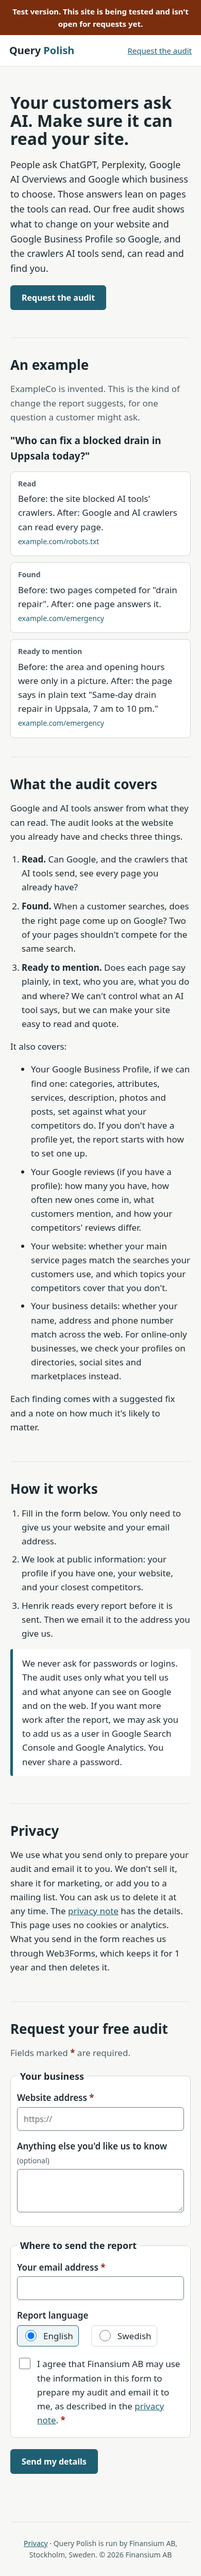
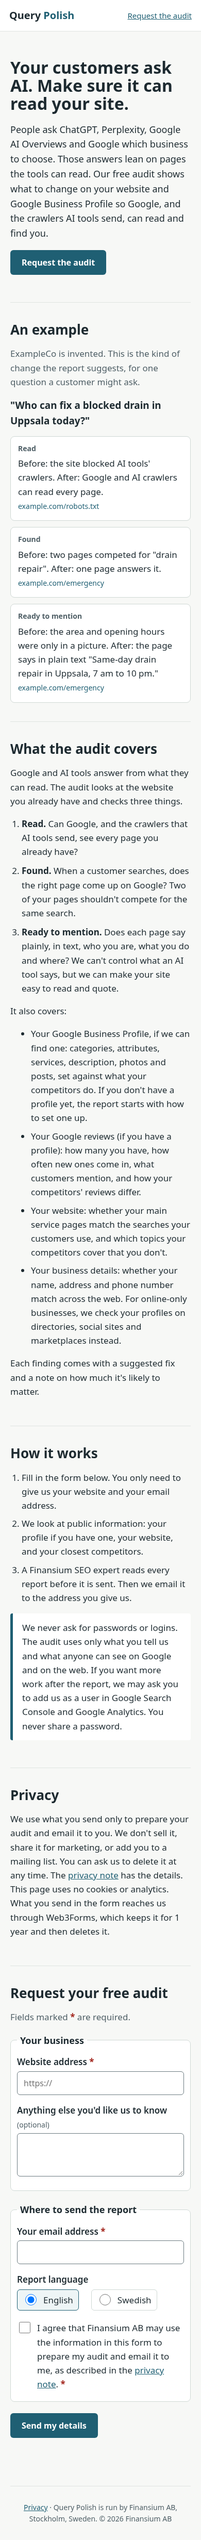
querypolish.com HTTPS live: cert issued 18:55 CET, https_enforced; live tests 199/199; real form test confirmed delivered (README + evidence)

Changed region(s): [[0.0, 0.0, 1.0, 0.8386], [0.0923, 0.8697, 0.8308, 0.9629], [0.8308, 0.2174, 0.8615, 0.2485]]

diff --git a/README.md b/README.md
@@ -8,7 +8,9 @@ Owner: Finansium AB. Engineering: Kent Beck. Updated 31 Oct 2026, Stockholm time
 - Commit 2329a32: test banner and `noindex, nofollow` removed from every page. `thanks/` keeps `<meta name="robots" content="noindex">` because it is a post-submit page. `robots.txt` allows crawling and points to `https://querypolish.com/sitemap.xml`. `sitemap.xml` lists `/` and `/privacy/`, and leaves `/thanks/` out. The home page has canonical and og:url `https://querypolish.com/`, and privacy has canonical `https://querypolish.com/privacy/`. `404.html` now uses root-absolute paths (`/assets/...`), and the other pages use relative paths, which work at the root.
 - The form is open for real requests. Its no-JS redirect is `https://querypolish.com/thanks/`.
 - DNS at Spaceship follows `DNS-spaceship.md` (untracked). MX/email forwarding is not touched by this repo.
-- **Still waiting on Henrik's own browser submission**: the live form check has to come from a normal browser, because Web3Forms blocks the box's IP (403 on the CORS preflight, 23 Oct). The tests mock the backend and send nothing.
+- **HTTPS live, 31 Oct 2026.** A Let's Encrypt certificate for `querypolish.com` and `www.querypolish.com` (expires 29 Jan 2027) was first seen at **18:55 CET**, after one remove-and-re-add of the custom domain through the API at 18:53–18:54 CET. GitHub made two commits for that, `2113614` "Delete CNAME" and `0c76856` "Create CNAME". `https_enforced=true` was set at 18:55 CET.
+- Status codes: `https://querypolish.com/` returns 200. `https://www.querypolish.com/` returns 301 to the apex, which then returns 200. `http://querypolish.com/` and `http://www.querypolish.com/` return 301 to `https://querypolish.com/`. The old `auberga-oak.github.io/querypolish-site/` URL returns 301 to the apex. Details are in `evidence/live-https-checks.txt`.
+- **Real form test done.** Henrik submitted the live form from his own browser on 31 Oct 2026. The Web3Forms notification reached the team inbox at **17:13:40 CET** with Website set to a real .se business site, report_language Swedish and Consent Yes. SPF, DKIM and DMARC all pass. **Web3Forms delivery is confirmed.** The check was read-only: nothing was sent from or marked in the inbox. The automated tests mock the backend and send nothing.
 
 ## Form
 - Required: **Website** (url) and **email**, plus the **Consent** checkbox. Optional: "Anything else you'd like us to know" (`Notes`). Report language is English by default, with Swedish as the other option. No branching, no detail fields.
@@ -24,7 +26,7 @@ Owner: Finansium AB. Engineering: Kent Beck. Updated 31 Oct 2026, Stockholm time
 - Record: `evidence/live-submit-result.json`.
 
 ## Tests
-- **Production (31 Oct, 2329a32):** `cd tests && QP_EXPECT=copy-ai QP_PORT=28782 python3 run_tests.py` now serves `docs/` at the root, like querypolish.com. Result: **200 pass, 0 fail** (`evidence/test-output.txt`). The live run against https://querypolish.com is recorded below once DNS and HTTPS are ready. The production checks cover: no banner, no noindex (except thanks/), robots allows crawling plus the Sitemap line, sitemap.xml, CNAME, canonical/og:url, 404 at root and at depth, the redirect URL, and that the form is open. The backend is aborted or mocked.
+- **Production (31 Oct, 2329a32):** `cd tests && QP_EXPECT=copy-ai QP_PORT=28782 python3 run_tests.py` now serves `docs/` at the root, like querypolish.com. Result: **200 pass, 0 fail** (`evidence/test-output.txt`). Live, `QP_BASE=https://querypolish.com QP_EXPECT=copy-ai python3 run_tests.py` (31 Oct, 18:56 CET, on build 0c76856): **199 pass, 0 fail** (`evidence/live-test-output.txt`). The live run has one check fewer because the `docs/` file scan only runs locally. Live screenshots: `evidence/live-home-390.png`, `evidence/live-home-1280.png`, and the rest of the `evidence/live-*.png` set. The production checks cover: no banner, no noindex (except thanks/), robots allows crawling plus the Sitemap line, sitemap.xml, CNAME, canonical/og:url, 404 at root and at depth, the redirect URL, and that the form is open. The backend is aborted or mocked.
 - Older (test deploy, subpath):
 - `cd tests && QP_PORT=28765 python3 run_tests.py` serves `docs/` locally under `/querypolish-site/`. Result: **126 pass, 0 fail** (`evidence/test-output.txt`).
 - `QP_BASE=https://auberga-oak.github.io/querypolish-site python3 run_tests.py` runs the same checks against the live site. Result: **126 pass, 0 fail** (`evidence/live-test-output.txt`).
